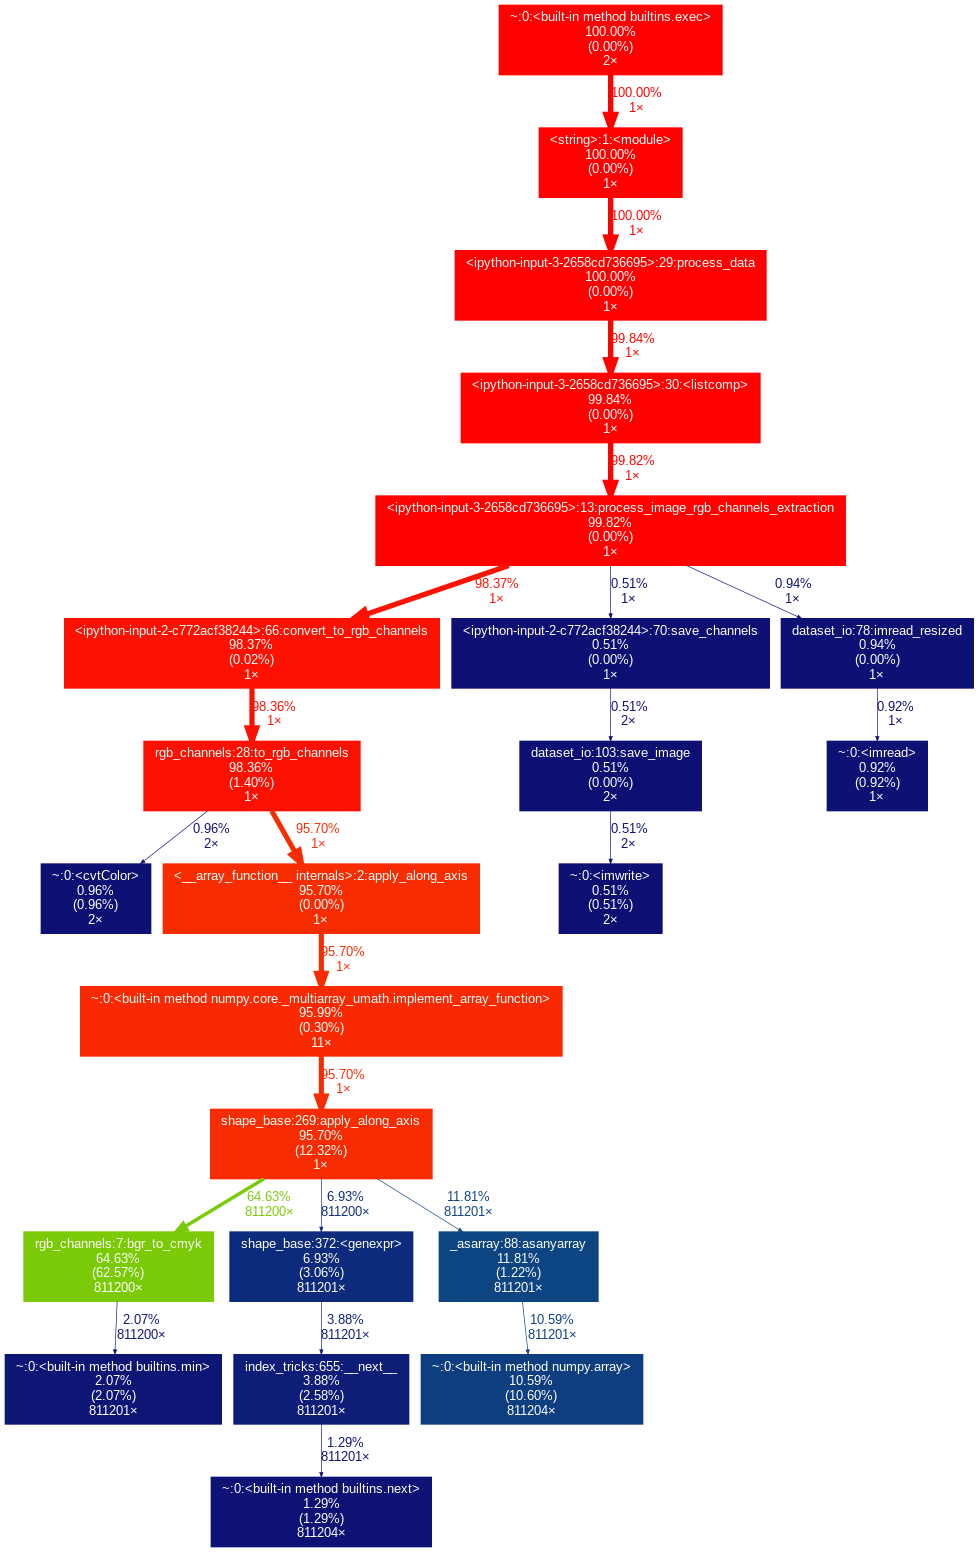
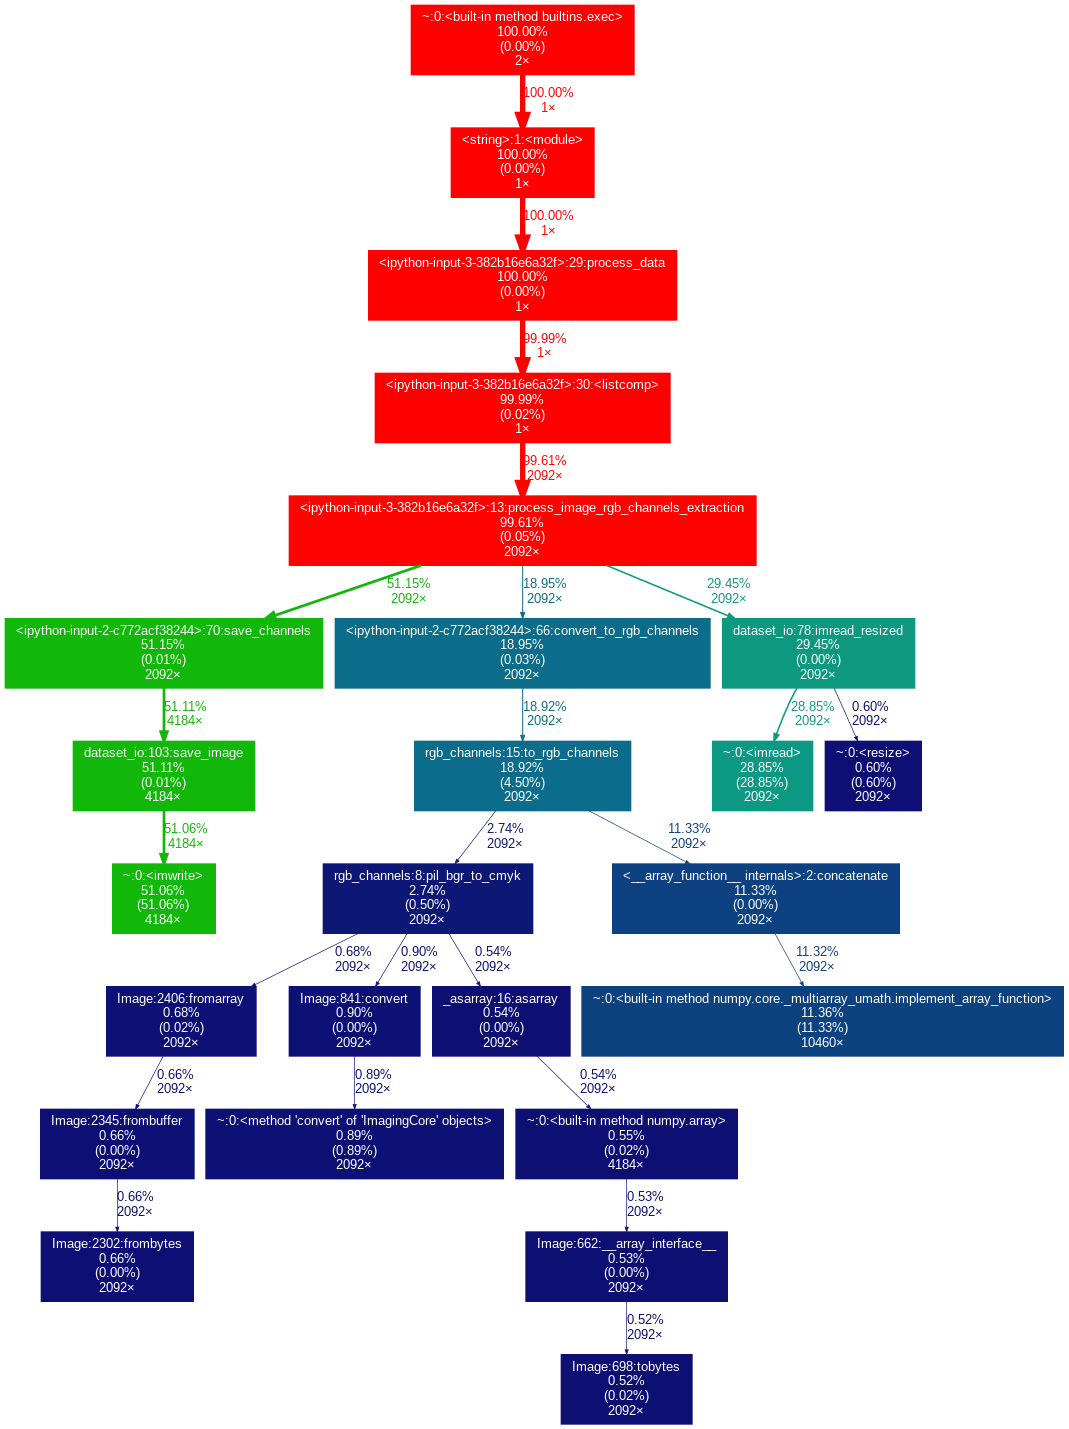
rgb channels extraction - done

diff --git a/rgb_channels.py b/rgb_channels.py
@@ -1,29 +1,16 @@
 import cv2
 import numpy as np
+from PIL import Image
 
 def get_channels_map():
     return {'B':0, 'G':1,'R':2,'H':3,'S':4,'V':5,'C':6,'M':7,'Y':8,'K':9,'L':10,'A':11,'b':12}
 
-def bgr_to_cmyk(bgr):
-    RGB_SCALE = 255
-    CMYK_SCALE = 100
-    b = bgr[0]
-    g = bgr[1]
-    r = bgr[2]
-    if (r, g, b) == (0, 0, 0):
-        return 0, 0, 0, CMYK_SCALE
-
-    c = 1 - r / RGB_SCALE
-    m = 1 - g / RGB_SCALE
-    y = 1 - b / RGB_SCALE
-
-    min_cmy = min(c, m, y)
-    c = (c - min_cmy) / (1 - min_cmy)
-    m = (m - min_cmy) / (1 - min_cmy)
-    y = (y - min_cmy) / (1 - min_cmy)
-    k = min_cmy
-
-    return [c, m, y, k]
+def pil_bgr_to_cmyk(bgr_umat):
+    img = cv2.cvtColor(bgr_umat, cv2.COLOR_BGR2RGB)
+    img=cv2.UMat.get(img)
+    img = Image.fromarray(img)
+    img = img.convert('CMYK')
+    return np.asarray(img)
 
 def to_rgb_channels(bgr, channels="HSCMYb"):
     bgr_umat = cv2.UMat(bgr)
@@ -31,7 +18,7 @@ def to_rgb_channels(bgr, channels="HSCMYb"):
     hsv = cv2.cvtColor(bgr_umat, cv2.COLOR_BGR2HSV)
     hsv=cv2.UMat.get(hsv)
     
-    cmyk = np.apply_along_axis(bgr_to_cmyk, 2, bgr) #todo PIL?
+    cmyk = pil_bgr_to_cmyk(bgr_umat)
     
     lab = cv2.cvtColor(bgr_umat, cv2.COLOR_BGR2LAB)
     lab=cv2.UMat.get(lab)
